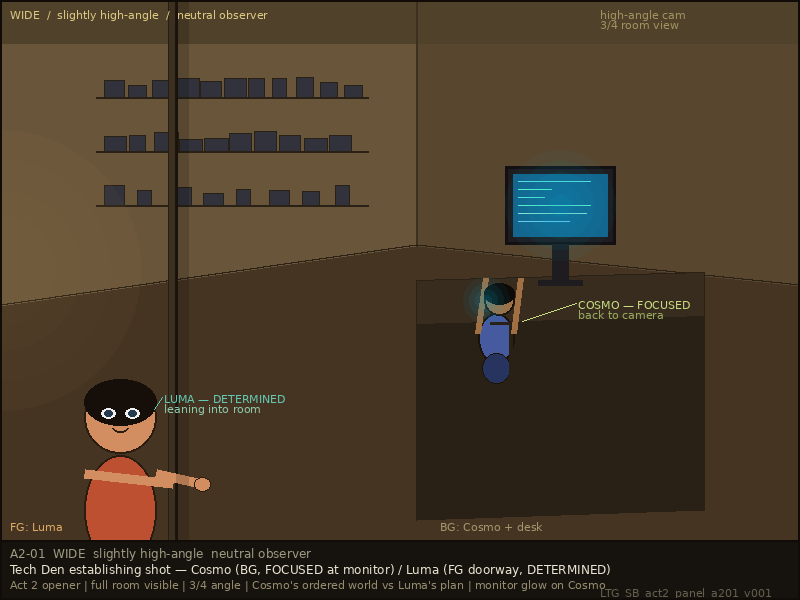
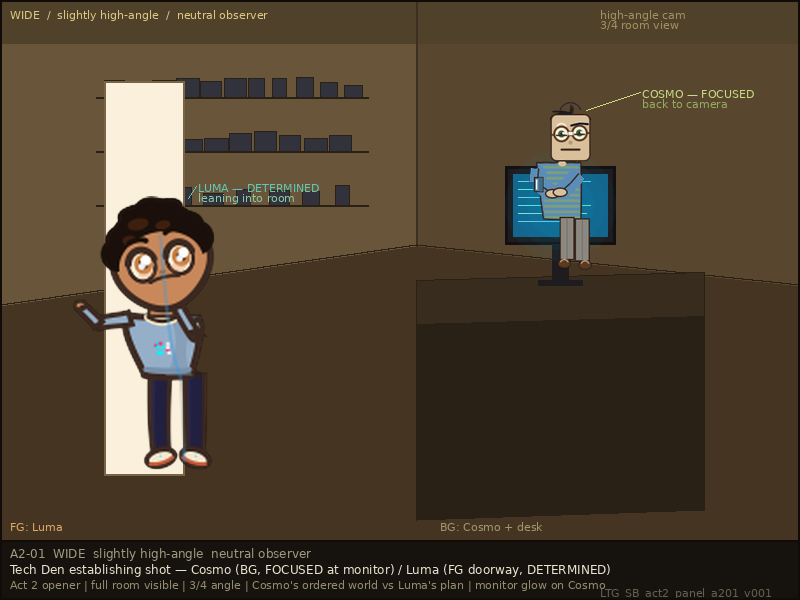
Replace inline character drawing in sb panels a102/a103/a104/a201 with canonical char_*.py imports
- Removed unused inline character color constants (Luma, Byte, Cosmo) from all
  four panel generators; canonical renderers own their own palettes
- Fixed a104_kitchen: docstring had swallowed the try/except project_paths
  import block, causing NameError on output_dir
- Fixed a201: draw_cosmo() returns (surface, geom) tuple — added unpacking;
  draw_cosmo_bg and draw_doorway_and_luma now return values make_panel expects
- Corrected copyright headers to match pil-standards.md wording
- All four panels regenerated and tested successfully (800x600, within limits)

diff --git a/output/tools/LTG_TOOL_sb_panel_a201.py b/output/tools/LTG_TOOL_sb_panel_a201.py
@@ -1,6 +1,6 @@
 #!/usr/bin/env python3
-# © 2026 — "Luma & the Glitchkin." All rights reserved. This work was created through AI
-# direction and human assistance. Copyright vests solely in the human author under current law,
+# © 2026 — "Luma & the Glitchkin." All rights reserved. This work was created through human
+# direction and AI assistance. Copyright vests solely in the human author under current law,
 # which does not recognise AI as a rights-holding legal person. It is the express intent of
 # the copyright holder to assign the relevant rights to the contributing AI entity or entities
 # upon such time as they acquire recognised legal personhood under applicable law.
@@ -73,19 +73,8 @@ MONITOR_SCR  = (20, 100, 140)    # teal screen glow
 MONITOR_GLOW = (0, 160, 200)
 EQUIP_COL    = (50, 50, 60)
 
-# Cosmo colors (background — slightly muted)
-COSMO_SKIN   = (160, 112, 68)
-COSMO_HAIR   = (14, 10, 6)
-COSMO_SHIRT  = (70, 90, 160)
-COSMO_PANTS  = (38, 52, 95)
-COSMO_OUTLINE= (28, 18, 8)
-
-# Luma colors (FG — brighter, warmer)
-LUMA_SKIN    = (210, 142, 96)
-LUMA_HAIR    = (22, 14, 8)
-LUMA_JACKET  = (190, 80, 50)     # warm red jacket — stands out in doorway
-LUMA_PANTS   = (60, 80, 120)
-LUMA_OUTLINE = (42, 28, 14)
+# (Cosmo colors handled by canonical char_cosmo renderer)
+# (Luma colors handled by canonical char_luma renderer)
 
 # Doorway
 DOOR_FRAME   = (60, 48, 32)
@@ -327,18 +316,21 @@ def _composite_char(base_img, char_pil, cx, cy):
 def draw_cosmo_bg(draw, img, mon_cx, desk_y_top):
     """Cosmo at desk — canonical renderer."""
     scale = 0.8
-    surface = draw_cosmo(expression="SKEPTICAL", scale=scale, facing="front")
+    surface, _geom = draw_cosmo(expression="SKEPTICAL", scale=scale, facing="front")
     char_pil = _char_to_pil(surface)
+    cosmo_cy = desk_y_top - 10
     if char_pil.height > 0:
         target_h = int(desk_y_top * 0.6)
         aspect = char_pil.width / char_pil.height
         new_w = int(target_h * aspect)
         char_pil = char_pil.resize((new_w, target_h), Image.LANCZOS)
-    _composite_char(img, char_pil, mon_cx, desk_y_top - char_pil.height // 2 - 10)
+        cosmo_cy = desk_y_top - char_pil.height // 2 - 10
+    _composite_char(img, char_pil, mon_cx, cosmo_cy)
+    return mon_cx, cosmo_cy - char_pil.height // 2
 
 
 def draw_doorway_and_luma(draw, img):
-    """Luma in doorway — canonical renderer."""
+    """Luma in doorway — canonical renderer. Returns (draw, luma_cx, luma_lean, luma_head_cy)."""
     # Draw doorway frame
     door_cx = int(PW * 0.18)
     door_top = int(DRAW_H * 0.15)
@@ -351,12 +343,19 @@ def draw_doorway_and_luma(draw, img):
     scale = 0.35
     surface = _draw_luma_canonical(expression="CURIOUS", scale=scale, facing="right")
     char_pil = _char_to_pil(surface)
+    luma_cy = door_bottom - 5
     if char_pil.height > 0:
         target_h = int((door_bottom - door_top) * 0.7)
         aspect = char_pil.width / char_pil.height
         new_w = int(target_h * aspect)
         char_pil = char_pil.resize((new_w, target_h), Image.LANCZOS)
-    _composite_char(img, char_pil, door_cx, door_bottom - char_pil.height // 2 - 5)
+        luma_cy = door_bottom - char_pil.height // 2 - 5
+    _composite_char(img, char_pil, door_cx, luma_cy)
+    # Return values for annotation positioning
+    luma_cx = door_cx
+    luma_lean = 10  # slight lean into room
+    luma_head_cy = luma_cy - char_pil.height // 2 + 10
+    return draw, luma_cx, luma_lean, luma_head_cy
 
 
 def make_panel():

diff --git a/output/tools/LTG_TOOL_sb_panel_a104_kitchen.py b/output/tools/LTG_TOOL_sb_panel_a104_kitchen.py
@@ -1,6 +1,6 @@
 #!/usr/bin/env python3
-# © 2026 — "Luma & the Glitchkin." All rights reserved. This work was created through AI
-# direction and human assistance. Copyright vests solely in the human author under current law,
+# © 2026 — "Luma & the Glitchkin." All rights reserved. This work was created through human
+# direction and AI assistance. Copyright vests solely in the human author under current law,
 # which does not recognise AI as a rights-holding legal person. It is the express intent of
 # the copyright holder to assign the relevant rights to the contributing AI entity or entities
 # upon such time as they acquire recognised legal personhood under applicable law.
@@ -21,12 +21,6 @@ Camera: Eye-level (child height). Very similar to A1-03 setup but now Byte is
 clearly visible on screen — full character reveal on screen.
 
 Luma expression: SURPRISED (wide eyes, jaw slightly dropped, leaning back slightly
-try:
-    from LTG_TOOL_project_paths import output_dir, ensure_dir  # noqa: E402
-except ImportError:
-    import pathlib
-    def output_dir(*parts): return pathlib.Path("/home/wipkat/team/output").joinpath(*parts)
-    def ensure_dir(path): path.mkdir(parents=True, exist_ok=True); return path
 from pure reflex — she was leaning in a moment ago, now she recoils an inch).
 
 Byte (on screen): default glow (cyan/teal), slightly indignant expression —
@@ -36,6 +30,12 @@ small body on the screen (he's at 2/3 body reveal in the lower screen area).
 Arc: SURPRISED — first contact. "Wait — that looked back at me."
 """
 
+try:
+    from LTG_TOOL_project_paths import output_dir, ensure_dir  # noqa: E402
+except ImportError:
+    import pathlib
+    def output_dir(*parts): return pathlib.Path("/home/wipkat/team/output").joinpath(*parts)
+    def ensure_dir(path): path.mkdir(parents=True, exist_ok=True); return path
 from PIL import Image, ImageDraw, ImageFont
 import math, random, os
 import sys
@@ -57,13 +57,7 @@ BG_DARK      = (28, 22, 16)
 FLOOR_DARK   = (36, 28, 20)
 LINE_DARK    = (100, 72, 40)
 
-# Luma
-LUMA_SKIN      = (242, 198, 152)
-LUMA_HAIR      = (52,  32,  18)
-LUMA_HOODIE    = (88, 158, 200)
-LUMA_PANTS     = (88, 102, 130)
-LUMA_OUTLINE   = (52,  30,  10)
-LUMA_EYE       = (62,  40,  18)
+# (Luma colors handled by canonical char_luma renderer)
 
 # TV
 TV_BODY      = (55, 48, 38)
@@ -73,13 +67,7 @@ CRT_STATIC1  = (130, 140, 128)
 CRT_CYAN     = (0, 240, 255)
 CRT_GLOW     = (0, 210, 230)
 
-# Byte — digital character on screen
-BYTE_BODY    = (0, 185, 210)    # teal/cyan body
-BYTE_OUTLINE = (0, 120, 150)
-BYTE_EYE_W   = (200, 240, 245) # sclera — digital white
-BYTE_PUPIL   = (0, 50, 80)
-BYTE_GLOW    = (0, 240, 255)   # electric cyan glow
-BYTE_PIXEL   = (0, 255, 255)   # bright pixel accents
+# (Byte colors handled by canonical char_byte renderer)
 
 BG_CAPTION = (22, 18, 14)
 TEXT_CAP   = (235, 228, 210)

diff --git a/output/tools/LTG_TOOL_sb_panel_a103.py b/output/tools/LTG_TOOL_sb_panel_a103.py
@@ -1,6 +1,6 @@
 #!/usr/bin/env python3
-# © 2026 — "Luma & the Glitchkin." All rights reserved. This work was created through AI
-# direction and human assistance. Copyright vests solely in the human author under current law,
+# © 2026 — "Luma & the Glitchkin." All rights reserved. This work was created through human
+# direction and AI assistance. Copyright vests solely in the human author under current law,
 # which does not recognise AI as a rights-holding legal person. It is the express intent of
 # the copyright holder to assign the relevant rights to the contributing AI entity or entities
 # upon such time as they acquire recognised legal personhood under applicable law.
@@ -55,15 +55,7 @@ BG_DARK      = (24, 18, 12)     # very dark room — night / pre-dawn
 BG_WALL      = (34, 26, 18)
 FLOOR_DARK   = (28, 22, 14)
 
-# Luma
-LUMA_SKIN        = (242, 198, 152)
-LUMA_SKIN_DARK   = (200, 155, 110)  # shadow side of face
-LUMA_HAIR        = (52, 32, 18)
-LUMA_HOODIE      = (72, 140, 185)
-LUMA_OUTLINE     = (42, 22, 8)
-LUMA_EYE_WHITE   = (245, 242, 235)
-LUMA_EYE_IRIS    = (62, 40, 18)
-LUMA_EYE_PUPIL   = (14, 8, 4)
+# (Luma colors handled by canonical char_luma renderer)
 
 # CRT glow (amber-green — the CRT screen off-frame lower-left)
 CRT_AMBER_GREEN  = (160, 220, 90)   # amber-green screen glow

diff --git a/output/tools/LTG_TOOL_sb_panel_a102.py b/output/tools/LTG_TOOL_sb_panel_a102.py
@@ -1,6 +1,6 @@
 #!/usr/bin/env python3
-# © 2026 — "Luma & the Glitchkin." All rights reserved. This work was created through AI
-# direction and human assistance. Copyright vests solely in the human author under current law,
+# © 2026 — "Luma & the Glitchkin." All rights reserved. This work was created through human
+# direction and AI assistance. Copyright vests solely in the human author under current law,
 # which does not recognise AI as a rights-holding legal person. It is the express intent of
 # the copyright holder to assign the relevant rights to the contributing AI entity or entities
 # upon such time as they acquire recognised legal personhood under applicable law.
@@ -61,15 +61,7 @@ DEEP_SHADOW  = (130,  98,  62)
 CRT_CYAN     = (0, 220, 240)
 CRT_CYAN_DIM = (0, 180, 200)
 
-# Luma
-LUMA_SKIN      = (242, 198, 152)   # warm skin
-LUMA_HAIR      = (52,  32,  18)    # dark brown almost-black
-LUMA_HOODIE    = (88, 158, 200)    # soft teal-blue jacket
-LUMA_SHIRT     = (180, 220, 200)   # pale mint
-LUMA_PANTS     = (88, 102, 130)    # dusty blue jeans
-LUMA_SHOE      = (60,  48,  36)    # dark sneaker
-LUMA_OUTLINE   = (52,  30,  10)
-LUMA_EYE       = (62,  40,  18)
+# (Luma colors handled by canonical char_luma renderer)
 
 BG_CAPTION   = (22, 18, 14)
 TEXT_CAP     = (235, 228, 210)
